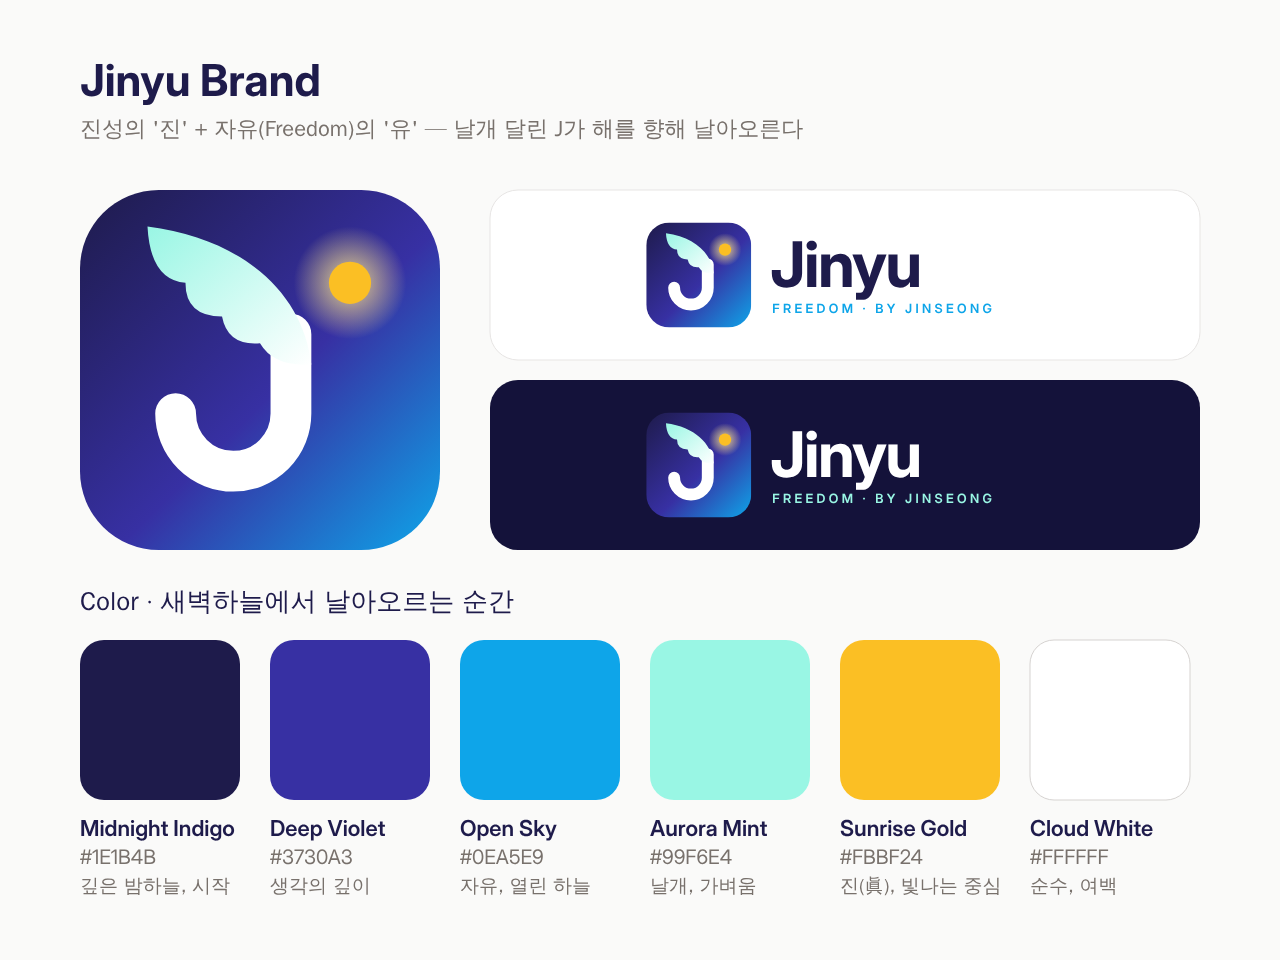
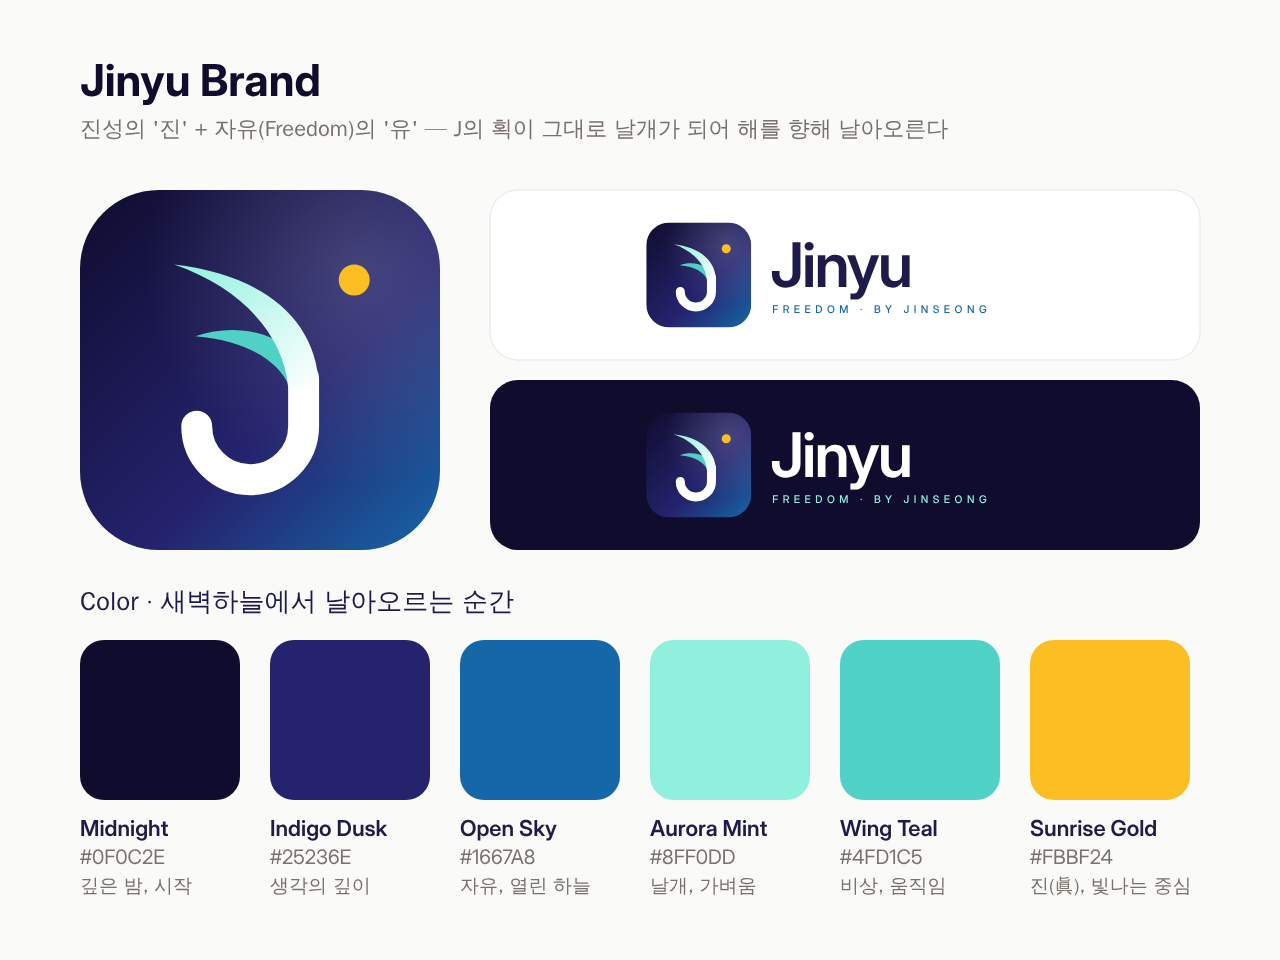
ai-core: Jinyu 아이콘을 미니멀하게 다듬고 외부 생성용 프롬프트 추가
Claude-Session: https://claude.ai/code/session_0199gzRoqN119gb9Eu1tW5nc

diff --git a/ai-core/app/web.html b/ai-core/app/web.html
@@ -4,7 +4,7 @@
 <meta charset="utf-8">
 <meta name="viewport" content="width=device-width, initial-scale=1">
 <title>Jinyu</title>
[2 lines of base64/hex data omitted]
 <style>
   :root { --bg:#fafaf9; --fg:#1c1917; --muted:#78716c; --me:#e7e5e4; --line:#d6d3d1; }
   @media (prefers-color-scheme: dark) { :root { --bg:#1c1917; --fg:#f5f5f4; --muted:#a8a29e; --me:#292524; --line:#44403c; } }

diff --git a/ai-core/brand/README.md b/ai-core/brand/README.md
@@ -1,6 +1,6 @@
 # Jinyu 브랜드
 
-진성의 '진' + 자유(Freedom)의 '유'. 날개 달린 J가 떠오르는 해를 향해 날아오르는 모습이에요.
+진성의 '진' + 자유(Freedom)의 '유'. J의 획이 그대로 끝이 뾰족한 날개가 되어 떠오르는 해를 향해 날아오르는 모습이에요.
 
 | 파일 | 용도 |
 |---|---|
@@ -13,14 +13,14 @@
 ## 색상: 새벽하늘에서 날아오르는 순간
 | 이름 | 값 | 의미 |
 |---|---|---|
-| Midnight Indigo | `#1E1B4B` | 깊은 밤하늘, 시작 |
-| Deep Violet | `#3730A3` | 생각의 깊이 |
-| Open Sky | `#0EA5E9` | 자유, 열린 하늘 |
-| Aurora Mint | `#99F6E4` | 날개, 가벼움 |
+| Midnight | `#0F0C2E` | 깊은 밤, 시작 |
+| Indigo Dusk | `#25236E` | 생각의 깊이 |
+| Open Sky | `#1667A8` | 자유, 열린 하늘 |
+| Aurora Mint | `#8FF0DD` | 날개, 가벼움 |
+| Wing Teal | `#4FD1C5` | 비상, 움직임 |
 | Sunrise Gold | `#FBBF24` | 진(眞), 빛나는 중심 |
-| Cloud White | `#FFFFFF` | 순수, 여백 |
 
-글꼴: Inter Display (Bold / SemiBold). 로고 SVG는 글꼴이 설치된 환경에서만 똑같이 보이니, 다른 곳에 쓸 때는 PNG를 쓰세요.
+글꼴: Inter Display (SemiBold / Medium). 로고 SVG는 글꼴이 설치된 환경에서만 똑같이 보이니, 다른 곳에 쓸 때는 PNG를 쓰세요.
 
 ## 텔레그램 봇 사진 바꾸기
 @BotFather → `/setuserpic` → 내 봇 선택 → `icon-512.png` 전송

diff --git a/ai-core/brand/PROMPT.md b/ai-core/brand/PROMPT.md
@@ -1,0 +1,25 @@
+# 외부 AI(ChatGPT 이미지 생성, Adobe Firefly 등)로 로고를 만들 때 쓰는 프롬프트
+
+아래 내용을 그대로 붙여넣으세요. `icon-1024.png` 를 참고 이미지로 함께 올리면 방향이 더 잘 맞아요.
+
+## 앱 아이콘
+```
+Design a premium, minimal app icon for an AI named "Jinyu".
+Concept: the name combines the creator's name "Jinseong" (Jin) and "Freedom" (yu, 自由).
+Symbol: a single elegant letter "J" whose top stroke flows seamlessly into a tapered, rising wing,
+flying toward a small golden sun in the upper right.
+Style: flat vector, geometric, clean negative space, no text, no 3D, no clutter, Apple/Stripe-level polish.
+Background: rounded square with a deep night-to-dawn gradient (#0F0C2E → #25236E → #1667A8),
+soft light from the upper right.
+Colors: white J, wing in white→aurora mint (#8FF0DD) with a second smaller teal feather (#4FD1C5),
+sun in gold (#FBBF24).
+Must stay recognizable at 32px. 1024x1024.
+```
+
+## 가로 로고 (워드마크)
+```
+Horizontal logo lockup: the Jinyu app icon on the left, the word "Jinyu" in a modern geometric sans-serif
+(semi-bold, tight letter spacing, dark navy #0F0C2E) on the right,
+with a small widely-spaced tagline below: "FREEDOM · BY JINSEONG" in ocean blue (#1667A8).
+White background, generous whitespace, minimal, premium tech brand. 2160x800.
+```
